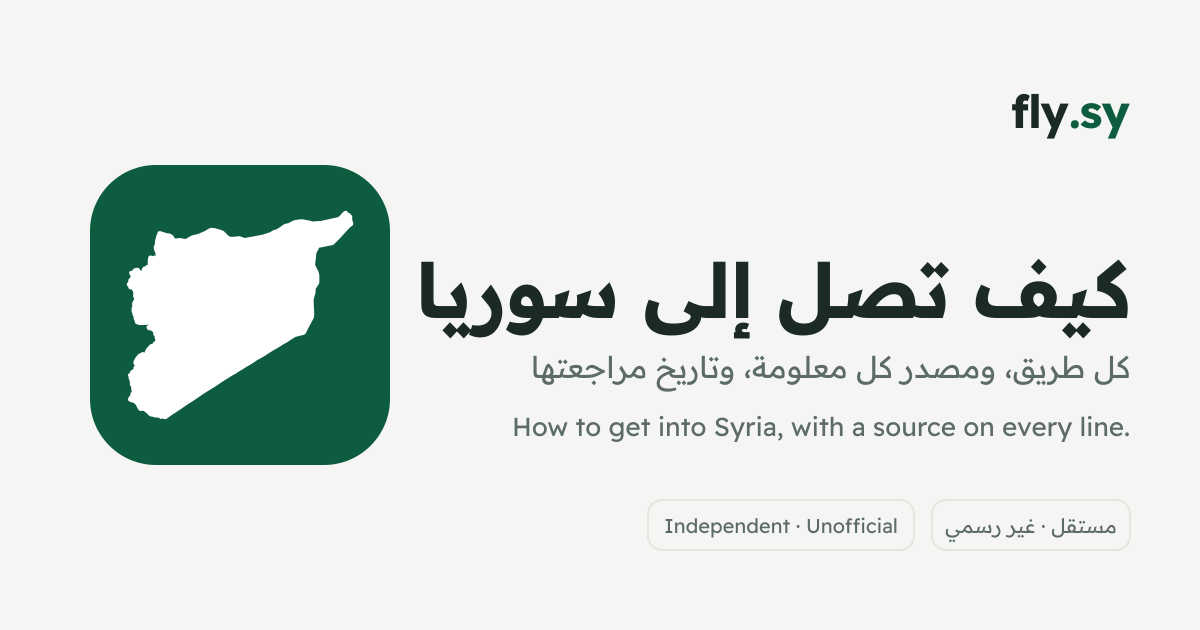
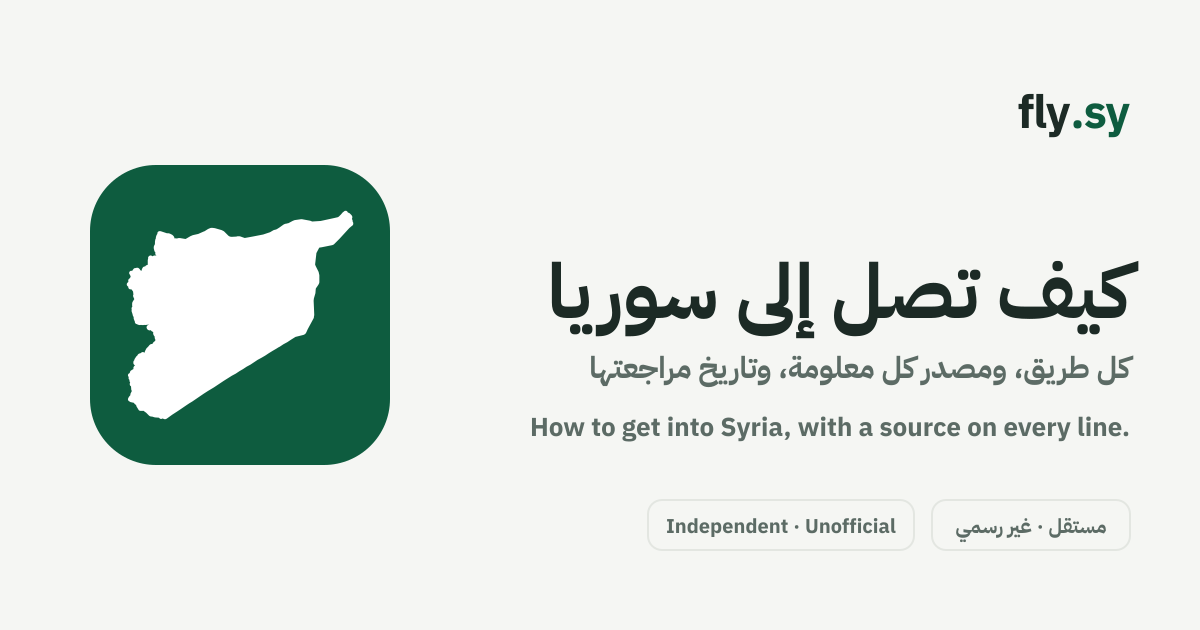
Set the site in IBM Plex Sans Arabic, weights 500 to 700 only
Readex Pro is replaced by IBM Plex Sans Arabic, loaded from Google Fonts
in the 500, 600 and 700 cuts. The 400 cut is too thin to read well on
screen, so it is not loaded: ordinary text at weight 400 is served the
Medium cut by the CSS weight-matching rule, which globals.css documents.

The share card is regenerated in the same face, with its two 400 lines
raised to 500 to match, and README and HANDOFF name the new font.

Claude-Session: https://claude.ai/code/session_017qXdehxG1a3cKKbsrtvfPT

diff --git a/src/app/layout.tsx b/src/app/layout.tsx
@@ -55,9 +55,11 @@ export default async function RootLayout({ children }: { children: React.ReactNo
         <link rel="preconnect" href="https://fonts.googleapis.com" />
         <link rel="preconnect" href="https://fonts.gstatic.com" crossOrigin="anonymous" />
         {/* Root app-router layout: this link applies to every route. next/font is avoided so builds work offline. */}
+        {/* Only the 500, 600 and 700 cuts are loaded: the thin 400 cut of Plex Sans Arabic reads poorly on screen, so
+            ordinary text at weight 400 falls to Medium (see --font-sans in globals.css). */}
         {/* eslint-disable-next-line @next/next/no-page-custom-font */}
         <link
-          href="https://fonts.googleapis.com/css2?family=Readex+Pro:wght@300;400;500;600;700&display=swap"
+          href="https://fonts.googleapis.com/css2?family=IBM+Plex+Sans+Arabic:wght@500;600;700&display=swap"
           rel="stylesheet"
         />
       </head>

diff --git a/src/app/globals.css b/src/app/globals.css
@@ -135,7 +135,12 @@
   --radius-md: calc(var(--radius) - 2px);
   --radius-lg: var(--radius);
   --radius-xl: calc(var(--radius) + 4px);
-  --font-sans: "Readex Pro", ui-sans-serif, system-ui, sans-serif;
+  /* IBM Plex Sans Arabic, loaded in layout.tsx at weights 500, 600 and 700 only.
+     Its 400 cut is too thin to read well on screen, so it is not loaded: ordinary
+     text at weight 400 is served the Medium (500) cut. That is the CSS matching
+     rule for a missing weight, not a trick, so font-normal and the default weight
+     both land on Medium without any override here. */
+  --font-sans: "IBM Plex Sans Arabic", ui-sans-serif, system-ui, sans-serif;
 
   /* Motion. The browser's built-in easings are too soft to read as deliberate,
      so ease-out and ease-in-out are replaced with stronger curves everywhere. */

diff --git a/README.md b/README.md
@@ -70,11 +70,11 @@ paste the URL and anon key into `.env.local`.
 ## Design
 
 Direction "Passport": cool grey ground, passport-green accent, outlined *stamp* chips for status,
-Readex Pro. Tokens are in `globals.css`; every component reads them, so restyling is one file.
+IBM Plex Sans Arabic in weights 500, 600 and 700 only (the 400 cut is too thin on screen, so weight 400 is served Medium). Tokens are in `globals.css`; every component reads them, so restyling is one file.
 
 The brand mark is `src/app/icon.svg`: Syria's border from Natural Earth (public domain), in white on a passport-green tile. Everything raster
 (`favicon.ico`, `apple-icon.png`, the manifest icons in `public/`, `opengraph-image.png`) is generated from it
-by `npm run icons` and committed. The share card sets its text in Readex Pro, so install the font locally
+by `npm run icons` and committed. The share card sets its text in IBM Plex Sans Arabic, so install the font locally
 before regenerating it.
 
 ## Licence

diff --git a/HANDOFF.md b/HANDOFF.md
@@ -17,7 +17,7 @@ Start here, then README.md and CONTRIBUTING.md.
 |---|---|
 | Audience | Public / consumers, not agencies |
 | Licence | Code MIT, data CC BY-SA 4.0 |
-| UI direction | **B — "Passport"**: calm, light, cool-grey ground, passport-green `#0E5C3F` accent, outlined *stamp* chips for status, Readex Pro font |
+| UI direction | **B — "Passport"**: calm, light, cool-grey ground, passport-green `#0E5C3F` accent, outlined *stamp* chips for status, IBM Plex Sans Arabic font (weights 500/600/700 only; 400 is served Medium) |
 | Style rules | Icon-first, minimal text. Mobile-first. No gradients, shadows, emoji, left-border cards. 44px touch targets. Pre-built components, not hand-rolled |
 | Stack | Next.js 16 (App Router, Server Actions), TypeScript, Tailwind 4, shadcn/ui (Radix), lucide-react |
 | Community reports | Supabase (Postgres + RLS) with a moderation queue |
